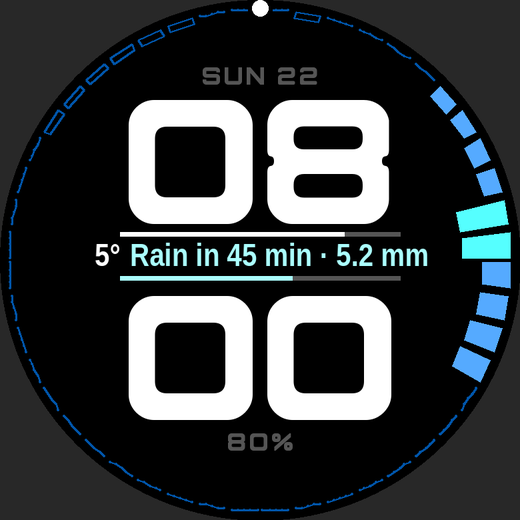
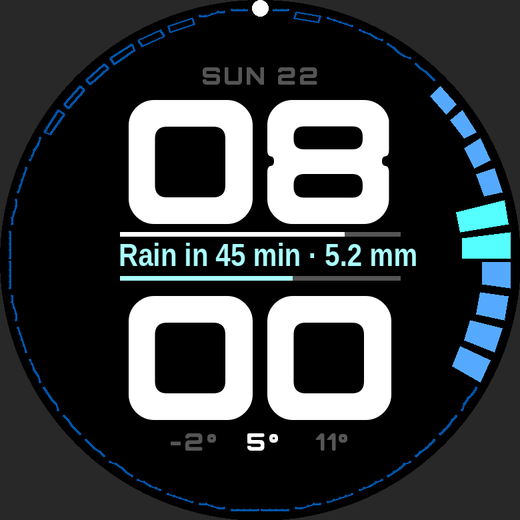
Bottom line: today's low, current and high temperature (new default)
Claude-Session: https://claude.ai/code/session_015HmYPjfyQ65s3v6ZviQxa9

Changed region(s): [[0.1846, 0.4615, 0.8308, 0.5231], [0.3077, 0.8308, 0.5846, 0.8923], [0.6154, 0.8308, 0.6769, 0.8615]]

diff --git a/src/pkjs/index.js b/src/pkjs/index.js
@@ -8,7 +8,7 @@ var M15_SLOTS = 8;
 var SUN_DAYS = 4;
 
 var DEFAULTS = {
-  Theme: '0', Range: '24', Corner: '1', Anim: true,
+  Theme: '0', Range: '24', Corner: '4', Anim: true,
   Frost: true, Gust: '50', Uv: '6', SunLine: true,
   Lang: '0', Clock: '0', TempUnit: '0', RainUnit: '0', WindUnit: '0',
   Updates: true, Interval: '30', Tilt: '0', BattLine: '1', StepBar: true, StepGoal: '10000', Model: 'best_match', LocMode: 'gps', City: ''
@@ -157,7 +157,7 @@ function forecastUrl(loc, model) {
     '&current=temperature_2m,weather_code' +
     '&hourly=temperature_2m,precipitation,precipitation_probability,weather_code,wind_gusts_10m,uv_index,is_day' +
     '&minutely_15=precipitation' +
-    '&daily=sunrise,sunset' +
+    '&daily=sunrise,sunset,temperature_2m_max,temperature_2m_min' +
     '&timezone=auto&timeformat=unixtime&forecast_days=5' +
     (model && model !== 'best_match' ? '&models=' + encodeURIComponent(model) : '');
 }
@@ -210,6 +210,22 @@ function pack(j) {
   if (d && d.sunrise && d.sunset) {
     dict.WxRise = u32(d.sunrise.slice(0, SUN_DAYS).map(function (v) { return v || 0; }));
     dict.WxSet = u32(d.sunset.slice(0, SUN_DAYS).map(function (v) { return v || 0; }));
+  }
+
+  if (d && d.time && d.temperature_2m_max && d.temperature_2m_min) {
+    var hi = [], lo = [];
+    for (var di = 0; di < SUN_DAYS && di < d.time.length; di++) {
+      var mx = d.temperature_2m_max[di], mn = d.temperature_2m_min[di];
+      if (mx === null || mx === undefined || mn === null || mn === undefined) break;
+      var a = Math.round(mx * 10) & 0xffff, b = Math.round(mn * 10) & 0xffff;
+      hi.push(a & 0xff, (a >> 8) & 0xff);
+      lo.push(b & 0xff, (b >> 8) & 0xff);
+    }
+    if (hi.length) {
+      dict.WxDay0 = d.time[0];
+      dict.WxHi = hi;
+      dict.WxLo = lo;
+    }
   }
 
   if (j.current && j.current.temperature_2m !== null && j.current.temperature_2m !== undefined) {

diff --git a/src/pkjs/config.js b/src/pkjs/config.js
@@ -65,9 +65,10 @@ module.exports = [
         messageKey: 'Corner',
         label: 'Bottom line',
         description: 'Small text at the very bottom, under the minutes.',
-        defaultValue: '1',
+        defaultValue: '4',
         options: [
           { label: 'Nothing', value: '0' },
+          { label: 'Temperature: low, now, high today', value: '4' },
           { label: 'Battery', value: '1' },
           { label: 'Steps today', value: '2' },
           { label: 'Heart rate', value: '3' }

diff --git a/src/c/draw.c b/src/c/draw.c
@@ -304,7 +304,9 @@ void draw_face(Layer *layer, GContext *ctx) {
   if (g_view.scrub >= 0) {
     text_scrub(left, sizeof(left), right, sizeof(right), now + (time_t)g_view.scrub * 360);
   } else {
-    text_temp(left, sizeof(left), now);
+    // With the temperature at the bottom, the middle row is just the smart line.
+    if (g_set.corner == CORNER_TEMP) left[0] = '\0';
+    else text_temp(left, sizeof(left), now);
     text_smart(right, sizeof(right), now);
   }
   text_corner(corner, sizeof(corner));
@@ -333,9 +335,31 @@ void draw_face(Layer *layer, GContext *ctx) {
                  GRect(cx - 70, hh_top - SMALL_GAP - SMALL_CAP - SMALL_PAD, 140, 18), th.dim);
   draw_text_font(ctx, hh, g_time_font, GRect(b.origin.x, hh_top - PAD, b.size.w, BOX), th.fg);
   draw_text_font(ctx, mm, g_time_font, GRect(b.origin.x, mm_top - PAD, b.size.w, BOX), th.fg);
-  if (corner[0]) {
-    draw_text_font(ctx, corner, g_small_font,
-                   GRect(cx - 70, mm_top + CAP + SMALL_GAP - SMALL_PAD, 140, 18), th.dim);
+  const int corner_y = mm_top + CAP + SMALL_GAP - SMALL_PAD;
+  if (g_set.corner == CORNER_TEMP) {
+    // Today's low, now and high: the current temperature bright in the middle.
+    char lo[12], cur[12], hi[12];
+    text_temp(cur, sizeof(cur), now);
+    GRect wide = GRect(0, 0, 200, 18);
+    if (text_hilo(lo, sizeof(lo), hi, sizeof(hi), now)) {
+      const int GAP = 12;
+      int wl = graphics_text_layout_get_content_size(lo, g_small_font, wide, GTextOverflowModeFill, GTextAlignmentLeft).w;
+      int wc = graphics_text_layout_get_content_size(cur, g_small_font, wide, GTextOverflowModeFill, GTextAlignmentLeft).w;
+      int wh = graphics_text_layout_get_content_size(hi, g_small_font, wide, GTextOverflowModeFill, GTextAlignmentLeft).w;
+      int x = cx - (wl + wc + wh + 2 * GAP) / 2;
+      graphics_context_set_text_color(ctx, th.dim);
+      graphics_draw_text(ctx, lo, g_small_font, GRect(x, corner_y, wl + 2, 18), GTextOverflowModeFill, GTextAlignmentLeft, NULL);
+      x += wl + GAP;
+      graphics_context_set_text_color(ctx, th.fg);
+      graphics_draw_text(ctx, cur, g_small_font, GRect(x, corner_y, wc + 2, 18), GTextOverflowModeFill, GTextAlignmentLeft, NULL);
+      x += wc + GAP;
+      graphics_context_set_text_color(ctx, th.dim);
+      graphics_draw_text(ctx, hi, g_small_font, GRect(x, corner_y, wh + 2, 18), GTextOverflowModeFill, GTextAlignmentLeft, NULL);
+    } else {
+      draw_text_font(ctx, cur, g_small_font, GRect(cx - 70, corner_y, 140, 18), th.fg);
+    }
+  } else if (corner[0]) {
+    draw_text_font(ctx, corner, g_small_font, GRect(cx - 70, corner_y, 140, 18), th.dim);
   }
 
   // Battery line just above the info row, step goal bar just below it:
@@ -393,7 +417,7 @@ void draw_face(Layer *layer, GContext *ctx) {
       wr = graphics_text_layout_get_content_size(right, f, wide, GTextOverflowModeTrailingEllipsis,
                                                  GTextAlignmentLeft).w;
     }
-    int gap = wr ? 5 : 0;
+    int gap = (wl && wr) ? 5 : 0;
     if (wl + gap + wr > MAX_W) wr = MAX_W - wl - gap;
     int x0 = cx - (wl + gap + wr) / 2;
     graphics_context_set_text_color(ctx, th.fg);

diff --git a/tools/preview/app_decls.h b/tools/preview/app_decls.h
@@ -16,7 +16,7 @@ typedef enum { HealthMetricStepCount, HealthMetricHeartRateBPM } HealthMetric;
 typedef enum { HealthServiceAccessibilityMaskAvailable = 1 } HealthServiceAccessibilityMask;
 #define PBL_HEALTH 1
 #define PERSIST_DATA_MAX_LENGTH 256
-enum { MESSAGE_KEY_Theme, MESSAGE_KEY_Range, MESSAGE_KEY_Corner, MESSAGE_KEY_Anim, MESSAGE_KEY_Frost, MESSAGE_KEY_Gust, MESSAGE_KEY_Uv, MESSAGE_KEY_SunLine, MESSAGE_KEY_Lang, MESSAGE_KEY_Clock, MESSAGE_KEY_TempUnit, MESSAGE_KEY_RainUnit, MESSAGE_KEY_WindUnit, MESSAGE_KEY_Updates, MESSAGE_KEY_Interval, MESSAGE_KEY_Tilt, MESSAGE_KEY_BattLine, MESSAGE_KEY_StepBar, MESSAGE_KEY_StepGoal, MESSAGE_KEY_Request, MESSAGE_KEY_JsReady, MESSAGE_KEY_WxT0, MESSAGE_KEY_WxTemp, MESSAGE_KEY_WxPrecip, MESSAGE_KEY_WxProb, MESSAGE_KEY_WxCode, MESSAGE_KEY_WxGust, MESSAGE_KEY_WxUv, MESSAGE_KEY_WxDay, MESSAGE_KEY_WxM15T0, MESSAGE_KEY_WxM15, MESSAGE_KEY_WxRise, MESSAGE_KEY_WxSet, MESSAGE_KEY_WxCurTemp, MESSAGE_KEY_WxCurCode, MESSAGE_KEY_WxCurT, MESSAGE_KEY_WxStatus };
+enum { MESSAGE_KEY_Theme, MESSAGE_KEY_Range, MESSAGE_KEY_Corner, MESSAGE_KEY_Anim, MESSAGE_KEY_Frost, MESSAGE_KEY_Gust, MESSAGE_KEY_Uv, MESSAGE_KEY_SunLine, MESSAGE_KEY_Lang, MESSAGE_KEY_Clock, MESSAGE_KEY_TempUnit, MESSAGE_KEY_RainUnit, MESSAGE_KEY_WindUnit, MESSAGE_KEY_Updates, MESSAGE_KEY_Interval, MESSAGE_KEY_Tilt, MESSAGE_KEY_BattLine, MESSAGE_KEY_StepBar, MESSAGE_KEY_StepGoal, MESSAGE_KEY_Request, MESSAGE_KEY_JsReady, MESSAGE_KEY_WxT0, MESSAGE_KEY_WxTemp, MESSAGE_KEY_WxPrecip, MESSAGE_KEY_WxProb, MESSAGE_KEY_WxCode, MESSAGE_KEY_WxGust, MESSAGE_KEY_WxUv, MESSAGE_KEY_WxDay, MESSAGE_KEY_WxM15T0, MESSAGE_KEY_WxM15, MESSAGE_KEY_WxRise, MESSAGE_KEY_WxSet, MESSAGE_KEY_WxDay0, MESSAGE_KEY_WxHi, MESSAGE_KEY_WxLo, MESSAGE_KEY_WxCurTemp, MESSAGE_KEY_WxCurCode, MESSAGE_KEY_WxCurT, MESSAGE_KEY_WxStatus };
 bool persist_exists(uint32_t); int persist_get_size(uint32_t); int persist_read_data(uint32_t, void*, size_t); int persist_write_data(uint32_t, const void*, size_t);
 int32_t persist_read_int(uint32_t); int persist_write_int(uint32_t, int32_t);
 bool quiet_time_is_active(void); time_t time_start_of_today(void);

diff --git a/src/c/contour.h b/src/c/contour.h
@@ -25,6 +25,10 @@ typedef struct {
   uint8_t sun_count;
   uint32_t rise[WX_SUN];
   uint32_t set[WX_SUN];
+  uint32_t day0;               // start of the first day of hi/lo (local midnight)
+  uint8_t hilo_count;
+  int16_t hi[WX_SUN];          // 0.1 degC, daily high
+  int16_t lo[WX_SUN];          // 0.1 degC, daily low
   int16_t cur_temp;            // 0.1 degC
   uint8_t cur_code;
   uint32_t cur_t;              // time of the "current" observation
@@ -37,7 +41,7 @@ enum { WX_OK = 0, WX_NO_LOCATION = 1, WX_NO_NETWORK = 2 };
 // ---- Settings ----
 
 enum { THEME_MIDNIGHT, THEME_DAYLIGHT, THEME_MONO, THEME_GRAPHITE, THEME_AUTO };
-enum { CORNER_NONE, CORNER_BATTERY, CORNER_STEPS, CORNER_HEART };
+enum { CORNER_NONE, CORNER_BATTERY, CORNER_STEPS, CORNER_HEART, CORNER_TEMP };
 enum { LANG_EN, LANG_DE, LANG_FR, LANG_IT, LANG_ES, LANG_COUNT };
 enum { CLOCK_AUTO, CLOCK_24, CLOCK_12 };
 enum { TEMP_C, TEMP_F };
@@ -99,6 +103,7 @@ int wx_range_hours(void);            // hours on the ring for this watch
 void text_date(char *buf, size_t n, time_t now);
 void text_clock_parts(char *h, size_t hn, char *m, size_t mn, time_t now);
 void text_temp(char *buf, size_t n, time_t now);
+bool text_hilo(char *lo, size_t ln, char *hi, size_t hn, time_t now);  // today's low and high
 void text_smart(char *buf, size_t n, time_t now);
 void text_corner(char *buf, size_t n);
 void text_scrub(char *line1, size_t n1, char *line2, size_t n2, time_t t);

diff --git a/src/c/main.c b/src/c/main.c
@@ -26,7 +26,7 @@ static void settings_default(void) {
     .version = SETTINGS_VERSION,
     .theme = THEME_MIDNIGHT,
     .range = 24,
-    .corner = CORNER_BATTERY,
+    .corner = CORNER_TEMP,
     .anim = 1,
     .frost = 1,
     .gust = 50,
@@ -185,6 +185,14 @@ static bool read_weather(DictionaryIterator *it) {
   size_t sn = read_bytes(it, MESSAGE_KEY_WxSet, sun, sizeof(sun)) / 4;
   for (size_t i = 0; i < sn; i++) w.set[i] = le32(sun + 4 * i);
   w.sun_count = (uint8_t)(rn < sn ? rn : sn);
+
+  uint8_t hl[WX_SUN * 2];
+  w.day0 = (uint32_t)read_int(it, MESSAGE_KEY_WxDay0, 0);
+  size_t hn = read_bytes(it, MESSAGE_KEY_WxHi, hl, sizeof(hl)) / 2;
+  for (size_t i = 0; i < hn; i++) w.hi[i] = (int16_t)(hl[2 * i] | (hl[2 * i + 1] << 8));
+  size_t ln = read_bytes(it, MESSAGE_KEY_WxLo, hl, sizeof(hl)) / 2;
+  for (size_t i = 0; i < ln; i++) w.lo[i] = (int16_t)(hl[2 * i] | (hl[2 * i + 1] << 8));
+  w.hilo_count = w.day0 ? (uint8_t)(hn < ln ? hn : ln) : 0;
 
   w.cur_temp = (int16_t)read_int(it, MESSAGE_KEY_WxCurTemp, 0);
   w.cur_code = (uint8_t)read_int(it, MESSAGE_KEY_WxCurCode, 0);

diff --git a/src/c/text.c b/src/c/text.c
@@ -206,6 +206,16 @@ void text_temp(char *buf, size_t n, time_t now) {
   fmt_temp(buf, n, fresh ? g_wx.cur_temp : g_wx.temp[i]);
 }
 
+bool text_hilo(char *lo, size_t ln, char *hi, size_t hn, time_t now) {
+  if (!g_wx.hilo_count || now < (time_t)g_wx.day0) return false;
+  // +2 h so a 23 h or 25 h day (clock change) still lands on the right day.
+  int d = (int)((now - (time_t)g_wx.day0 + 7200) / 86400);
+  if (d >= g_wx.hilo_count) return false;
+  fmt_temp(lo, ln, g_wx.lo[d]);
+  fmt_temp(hi, hn, g_wx.hi[d]);
+  return true;
+}
+
 // Appends the heaviest hour of the coming rain spell, like " · 2.8 mm".
 static void add_amount(char *buf, size_t n, int i) {
   int peak = 0;

diff --git a/tools/preview/stub.c b/tools/preview/stub.c
@@ -56,6 +56,8 @@ static void fake(time_t now, int scenario) {
     g_wx.rise[d] = (uint32_t)(mid + 7 * 3600 + 20 * 60); g_wx.set[d] = (uint32_t)(mid + 16 * 3600 + 45 * 60);
   }
   g_wx.sun_count = 4;
+  g_wx.day0 = (uint32_t)(now - now % 86400); g_wx.hilo_count = 4;
+  for (int d = 0; d < 4; d++) { g_wx.lo[d] = (int16_t)(-20 - 10 * d); g_wx.hi[d] = (int16_t)(110 - 5 * d); }
   g_wx.cur_t = (uint32_t)now; g_wx.cur_temp = g_wx.temp[0]; g_wx.cur_code = g_wx.code[0];
 }
 

diff --git a/README.md b/README.md
@@ -36,7 +36,7 @@ fonts, so the lettering differs a little from the watch._
 - **Battery line and step bar**: a thin line just above the middle text shows the watch battery: plain (red at 20% or less) or colourful (green, orange below 30%, red below 10%), and a bar just below it fills towards your step goal (a fixed goal or your usual day from Pebble Health). Both can be turned off.
 - **Clock**: big bold stacked hours over minutes in a wide, square "techno" style (Contour Digits, a modified Orbitron Black), as large as fits inside the rain chart. The date and the extra line use small capitals of the same font, with the
   date small above. Between them is a thin info row with the temperature and
-  the smart line, and an optional extra line (battery, steps or heart rate)
+  the smart line, and a bottom line (by default today's low, the temperature now in bright and today's high; or battery, steps or heart rate)
   sits below.
 - **Wrist flick**: a cursor walks along the line, and the middle shows the
   time, temperature and rain for each hour.
